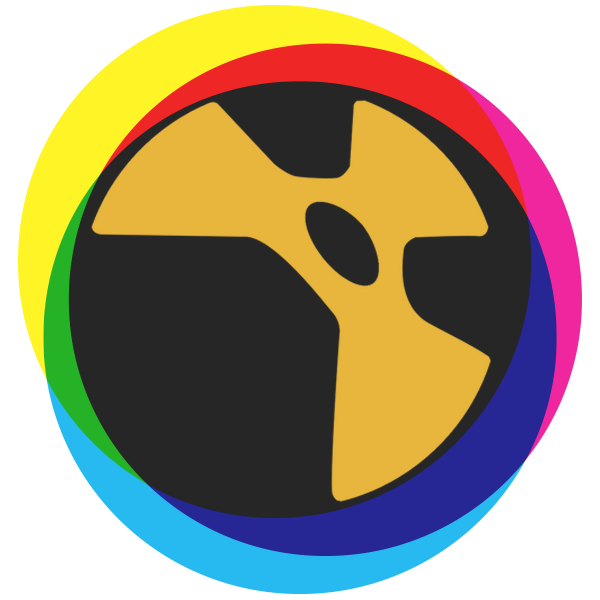
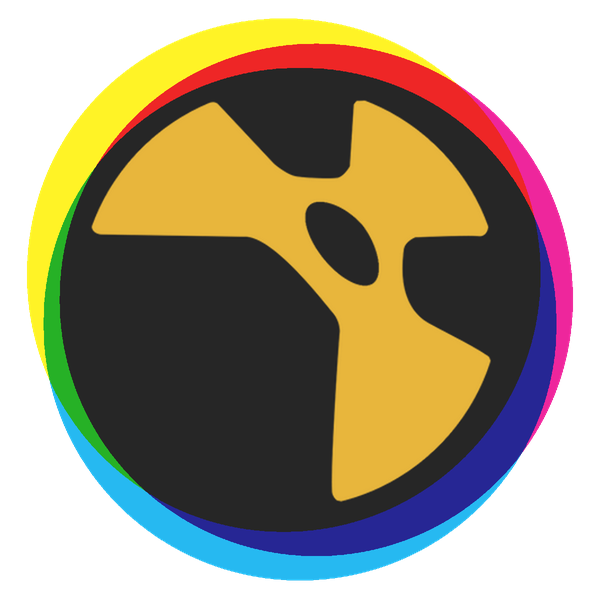
El icono de la app usa las planchas de PipeSync

Changed region(s): [[0.03, 0.0, 0.99, 0.99]]

diff --git a/docs/ChangeLog.md b/docs/ChangeLog.md
@@ -1,5 +1,7 @@
 v1.84:
 
+    - El icono de la app tenia el cuerpo mas chico y el anillo de color mas separado que el resto del pack, al punto de perderse en tamanos chicos. Se rehacen las tres planchas CMY del maestro (`LGA_OpenInNukeX.png`, 600px) acercandolas en proporcion k=0.65, sin tocar el logo naranja de Nuke del centro. El cuerpo pasa de 62% a 74% del dibujo y la separacion de color de 7.8% a 5.2%, en linea con PipeSync. Se actualiza tambien el PNG del `.icon` de Icon Composer (era copia identica del maestro). `AppIcon.icns`/`Assets.car`, compilados por actool, quedan pendientes de recompilar en la Mac. El SVG y el `.ico` de asociacion de archivo `.nk` (dibujo distinto) no se tocan. [ OpenInNukeX - El icono de la app usa las planchas de PipeSync ]
+
     - El comando `paste_clipboard` podia responder exito aunque el clipboard no generara Reads, faltara `LGA_ContactSheet.nk` o el toolset no creara el Group esperado. Eso hacia que el Review Panel de Hiero informara una operacion completada mientras NukeX solo dejaba el fallo en su log. Ahora esos tres casos levantan un error de protocolo y la respuesta exitosa se envia unicamente despues de crear `LGA_ContactSheet` y conectar todos los Reads; el cliente puede devolver el aviso al hilo principal sin congelar Nuke Studio. [ OpenInNukeX - Confirmar Contact Sheet real ]
 
     - Falta `Qt6Gui.dll` en la lista de dependencias de `compilar.bat`: el binario y `platforms\qwindows.dll` la importan directo (confirmado con `objdump -p`), asi que un arbol limpio pasaba la verificacion igual y la app no arrancaba. Se agrega a la lista y a la copia directa. De paso, los scripts de build (`compilar.*`, `deploy.*`, `instalador.bat`, `limpiar.*`, `create_dmg.sh`, `github_release_*`) se mueven de `QtClient/` a la raiz del repo; `QtClient/` conserva el `CMakeLists.txt` y los arboles de build, y cada script movido ajusta sus rutas internas para seguir operando sobre ellos. `tools/sync_version.py` actualiza la ruta de `instalador.bat` que invoca tras un bump. [ OpenInNukeX - Falta Qt6Gui.dll y los scripts de build se mueven a la raiz ]
